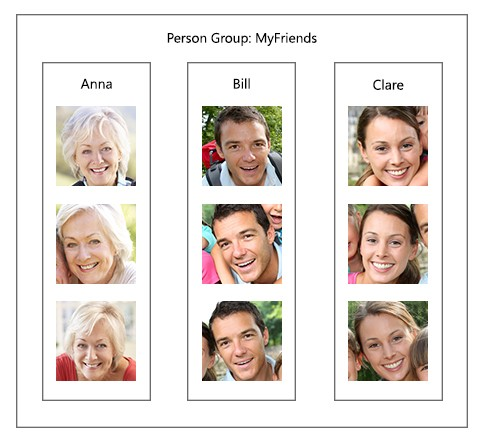
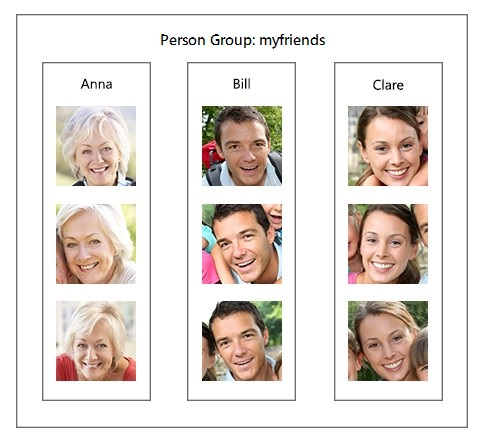
Development (#50)
updating Face API docs for July release

Changed region(s): [[0.3099, 0.059, 0.6818, 0.1179]]

diff --git a/Content/en-us/Face/Overview.md b/Content/en-us/Face/Overview.md
@@ -6,44 +6,47 @@ Weight: 100
 -->
 # Face API
 
-Welcome to the Microsoft Face API. Face API is a cloud-based API that provides the most advanced algorithms for face detection and recognition. The main functionality of Face API can be divided into two categories: face detection with attributes extraction and face recognition.
+Welcome to the Microsoft Face API, a cloud-based service that provides the most advanced face algorithms. Face API has two main functions: face detection with attributes and face recognition.
 
 ## Face Detection
 
-
-The Face API provides high precision face location detection that can detect up to 64 human faces in an image. Face detection can be done by uploading an entire JPEG file or by specifying a URL of an existing JPEG image on the web.
+Face API detects up to 64 human faces with high precision face location in an image. And the image can be specified by file in bytes or valid URL.
 
 ![Overview - Face Detection](./Images/Face.detection.jpg)
 
-The detected faces are returned with rectangles (left, top, width and height) indicating the location of faces in the image in pixels. Optionally, face detection can also extract a series of face related attributes from each face such as pose, gender and age.
-
-For more details about face detection with attributes extraction, please refer to the API [Face - Detect](https://dev.projectoxford.ai/docs/services/563879b61984550e40cbbe8d/operations/563879b61984550f30395236).
+Face rectangle (left, top, width and height) indicating the face location in the image is returned along with each detected face. Optionally, face detection extracts a series of face related attributes such as pose, gender, age, head pose, facial hair and glasses. Refer to [Face - Detect](https://dev.projectoxford.ai/docs/services/563879b61984550e40cbbe8d/operations/563879b61984550f30395236) for more details.
 
 ## Face Recognition
 
-In general, face recognition provides the functionalities of automatically identifying or verifying a person from a selection of detected faces. The Face API provides four recognition functionalities: face verification, similar face searching, automatic face grouping and person identification. Face recognition is widely used in security systems, celebrity recognition and photo tagging applications.
+Face recognition is widely used in many scenarios including security, natural user interface, image content analysis and management, mobile apps, and robotics. Four face recognition functions are provided: face verification, finding similar faces, face grouping, and person identification.
 
 ### Face Verification
 
-Face API verification can perform an authentication against two detected faces. For more details about face verification, please refer to the API [Face - Verify](https://dev.projectoxford.ai/docs/services/563879b61984550e40cbbe8d/operations/563879b61984550f3039523a).
+Face API verification performs an authentication against two detected faces or authentication from one detected face to one person object. Refer to [Face - Verify](https://dev.projectoxford.ai/docs/services/563879b61984550e40cbbe8d/operations/563879b61984550f3039523a) for more details.
 
-### Similar Face Searching
+### Finding Similar Face
 
-Face API can search for faces based on similarity. By providing one target detected face, and a set of unknown faces to search with, our service can return a small set of faces that look most similar to the target face. For more details about similar face searching, please refer to the API [Face - Find Similar](https://dev.projectoxford.ai/docs/services/563879b61984550e40cbbe8d/operations/563879b61984550f30395237).
+Given target detected face and a set of candidate faces to search with, our service finds a small set of faces that look most similar to the target face. Two working modes, `matchFace` and `matchPerson` are supported. `matchPerson` mode returns similar faces after applying a same-person threshold derived from [Face - Verify](https://dev.projectoxford.ai/docs/services/563879b61984550e40cbbe8d/operations/563879b61984550f3039523a). `matchFace` mode ignores the same-person threshold and returns top similar candidate faces. Take the following example, candidate faces are listed.      
+![Overview - Face Find Similar](./Images/FaceFindSimilar.Candidates.jpg)
+And query face is 
+
+![Overview - Face Find Similar](./Images/FaceFindSimilar.QueryFace.jpg) 
+
+To find 4 similar faces, `matchPerson` mode returns (a) and (b), which belong to the same person with query face. `matchFace` mode returns (a), (b), (c) and (d), exactly 4 candidates even if low similarity. Refer to [Face - Find Similar](https://dev.projectoxford.ai/docs/services/563879b61984550e40cbbe8d/operations/563879b61984550f30395237) for more details.
 
 ### Face Grouping
 
-Face API can automatically group detected faces based on similarity. This API takes one set of unknown faces, and then divides them into several groups. Each group is a disjointed proper subset of the original unknown face set, it will contain similar faces that can be considered as one person. For more details about face grouping, please refer to the API [Face - Group](https://dev.projectoxford.ai/docs/services/563879b61984550e40cbbe8d/operations/563879b61984550f30395238).
+Given one set of unknown faces, face grouping API automatically divides them into several groups based on similarity. Each group is a disjointed proper subset of the original unknown face set, and contains similar faces. And all the faces in the same group can be considered to belong to the same person object. Refer to [Face - Group](https://dev.projectoxford.ai/docs/services/563879b61984550e40cbbe8d/operations/563879b61984550f30395238) for more details.
 
 ### Face Identification
 
-Face API identification can identify people from a detected face. The people database (defined as a person group) need to be defined in advance for accurate identification.
+Face API can be used to identify people based on a detected face and people database (defined as a person group) which needs to be created in advance and can be edited over time.
 
-The following figure is an example of a person group named "MyFriends". Each group may have up to 1000 people defined. Meanwhile, each person can register one or more faces.
+The following figure is an example of a person group named "myfriends". Each group may contain up to 1,000 person objects. Meanwhile, each person object can have one or more faces registered. 
 
 ![Overview - Person Group](./Images/person.group.clare.jpg)
 
-After a person group has been created and trained, identification can then be performed against the group and a new test face. If the face is identified as a person defined in the group, the person will be returned.
+After a person group has been created and trained, identification can be performed against the group and a new detected face. If the face is identified as a person object in the group, the person object will be returned.
 
 For more details about person identification, please refer to the API guides listed below:
 
@@ -55,6 +58,18 @@ For more details about person identification, please refer to the API guides lis
 ## Changes
 
 This document is targeting **Microsoft Face API** service version 1.0.
+
+### Release changes in July 2016
+
+* **Face Verification API** Face to Person object authentication is supported – previously Face Verification requests only supported Face to Face authentication. More details can be found: [Face - Verify](https://dev.projectoxford.ai/docs/services/563879b61984550e40cbbe8d/operations/563879b61984550f3039523a).
+
+* **Finding Similar Face API** Added optional `mode` field enabling selection of two working modes, default `matchPerson` works the same as before, and new mode `matchFace` removes the same person filtering. If `mode` field is not specified, the behavior is the same as the past release. More details can be found: [Face - Find Similar](https://dev.projectoxford.ai/docs/services/563879b61984550e40cbbe8d/operations/563879b61984550f30395237).
+
+* **Face Identification API** Optional user-specified `confidenceThreshold` is enabled for user to define the confidence threshold of whether one face belong to a person object. More details can be found: [Face - Identify](https://dev.projectoxford.ai/docs/services/563879b61984550e40cbbe8d/operations/563879b61984550f30395239).
+
+* **List person groups** New optional `start` and `top` parameters in list person groups to support user specifying the start point and the total person groups number to list. More details can be found: [Person Group - List Person Groups](https://dev.projectoxford.ai/docs/services/563879b61984550e40cbbe8d/operations/563879b61984550f30395248).
+
+**Note**: All of these changes are compatible with the last version service, and using the default value for the newly added parameters will not cause any changes to users' code. 
 
 ### V1.0 changes from V0
 
